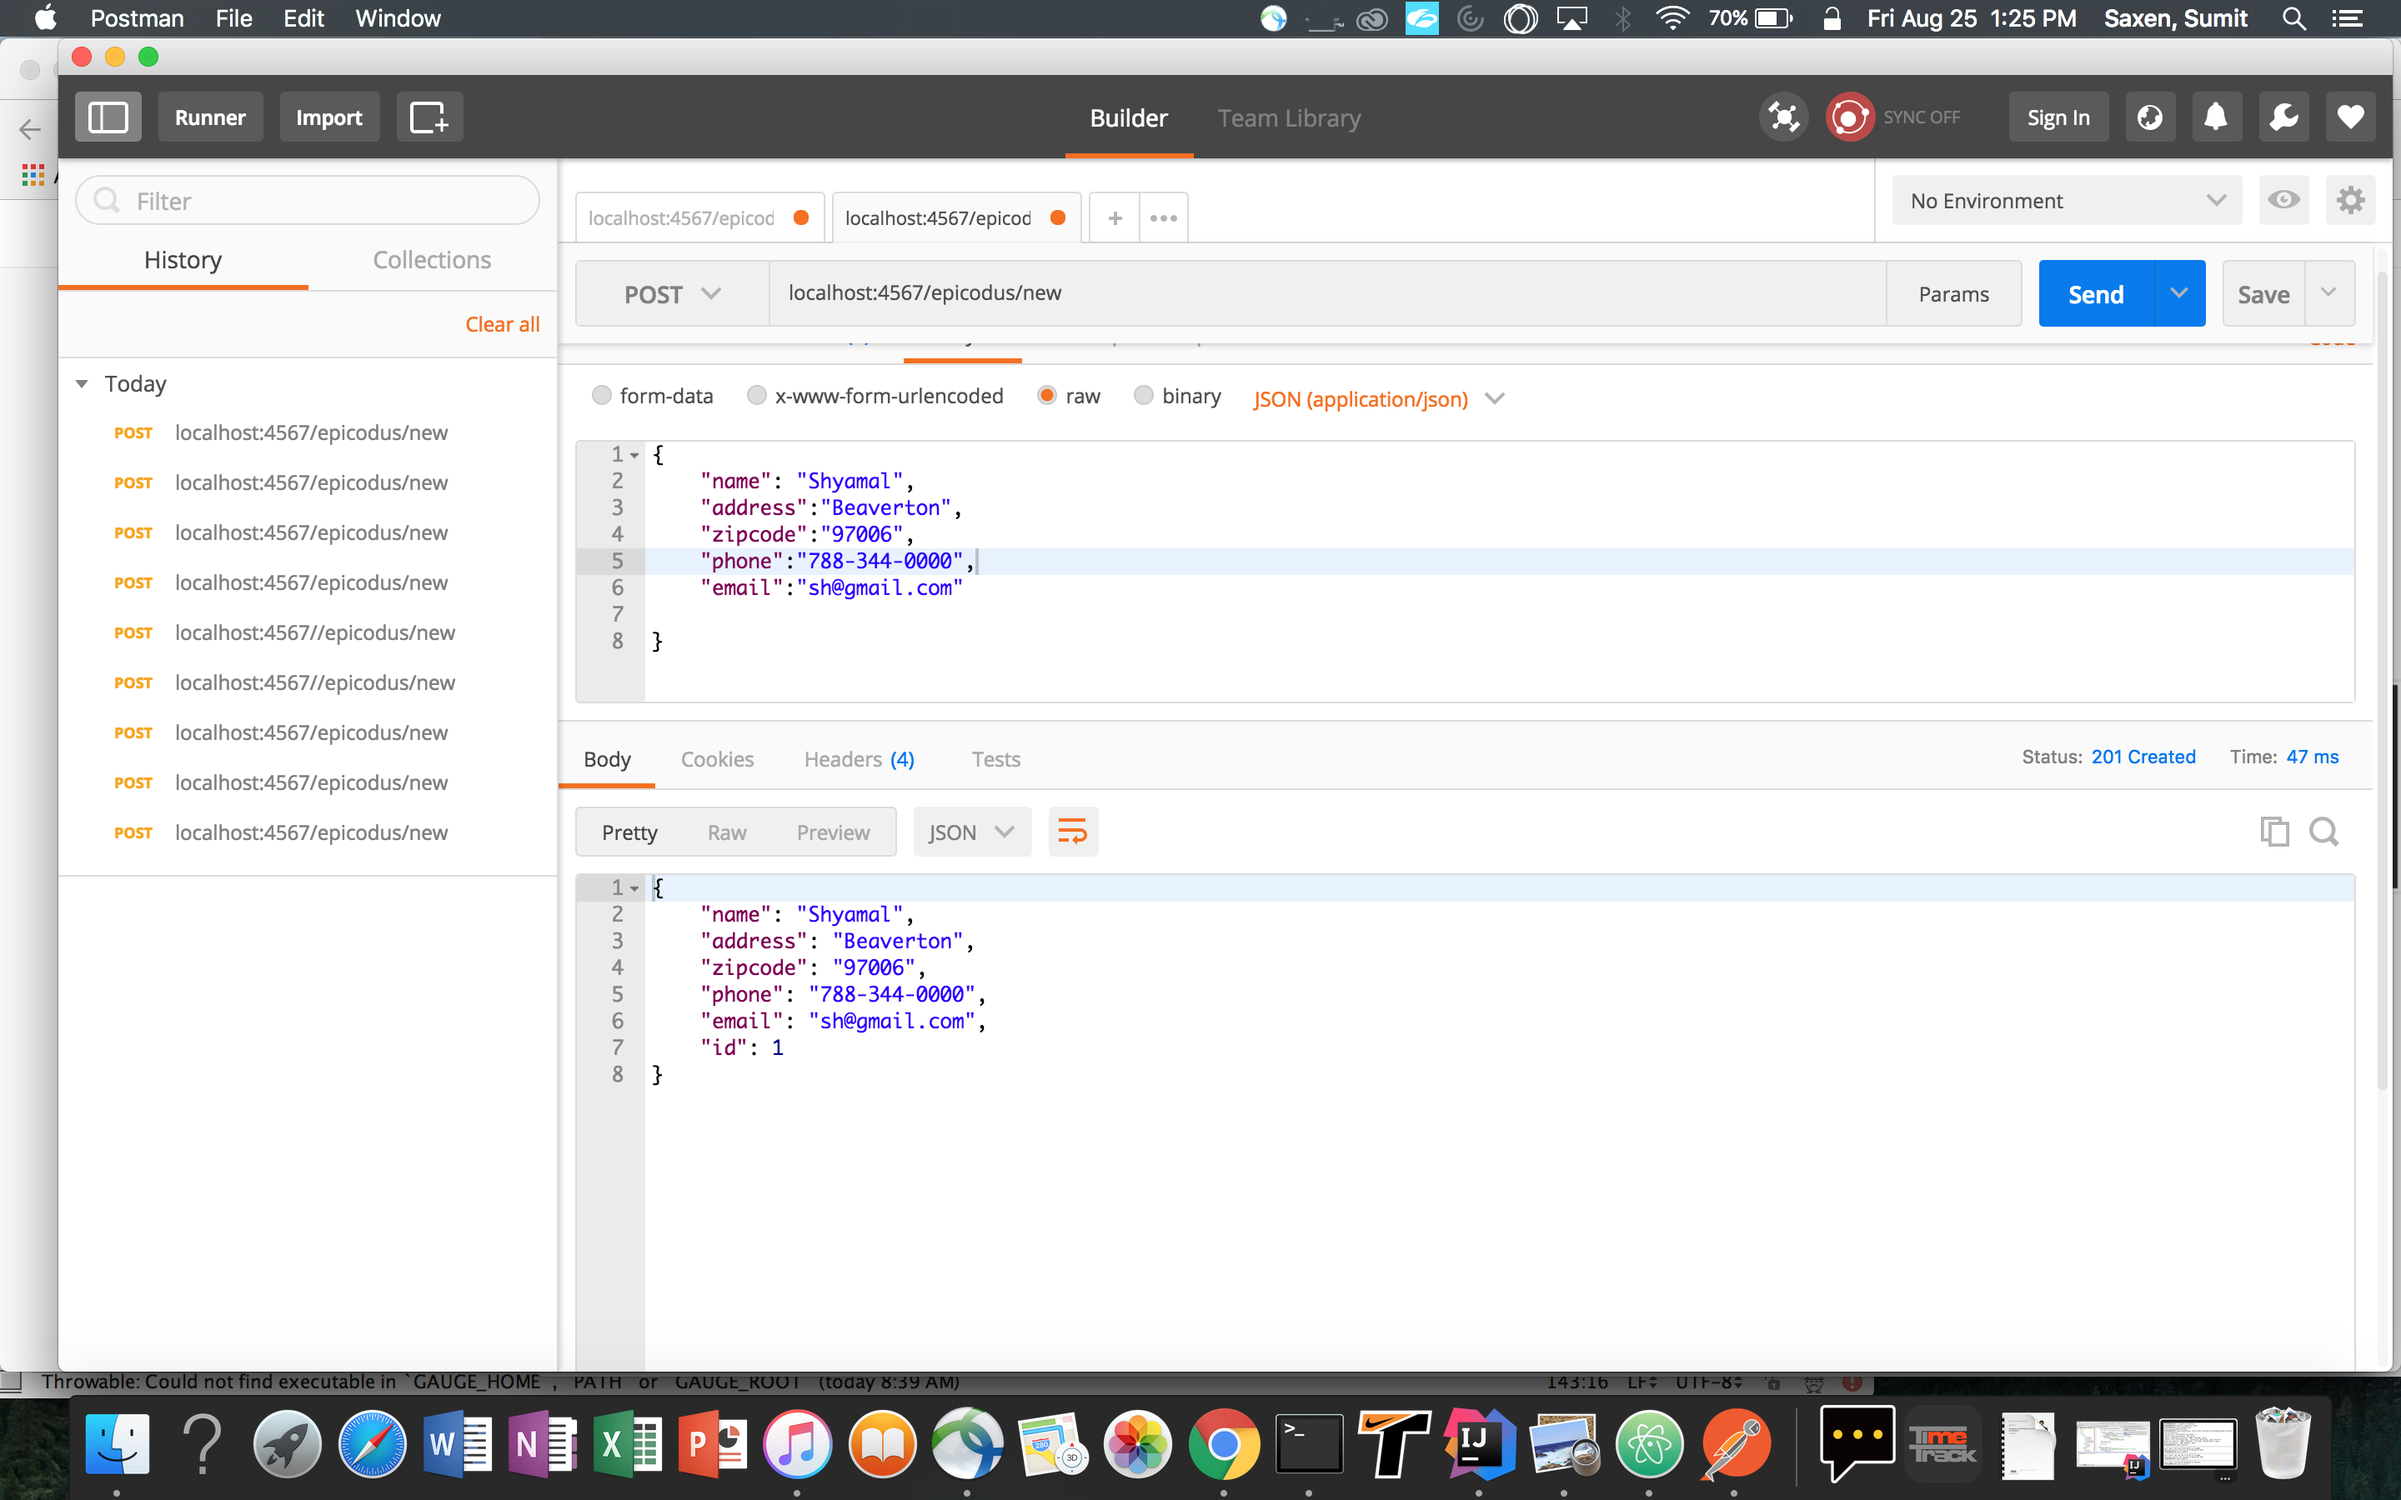
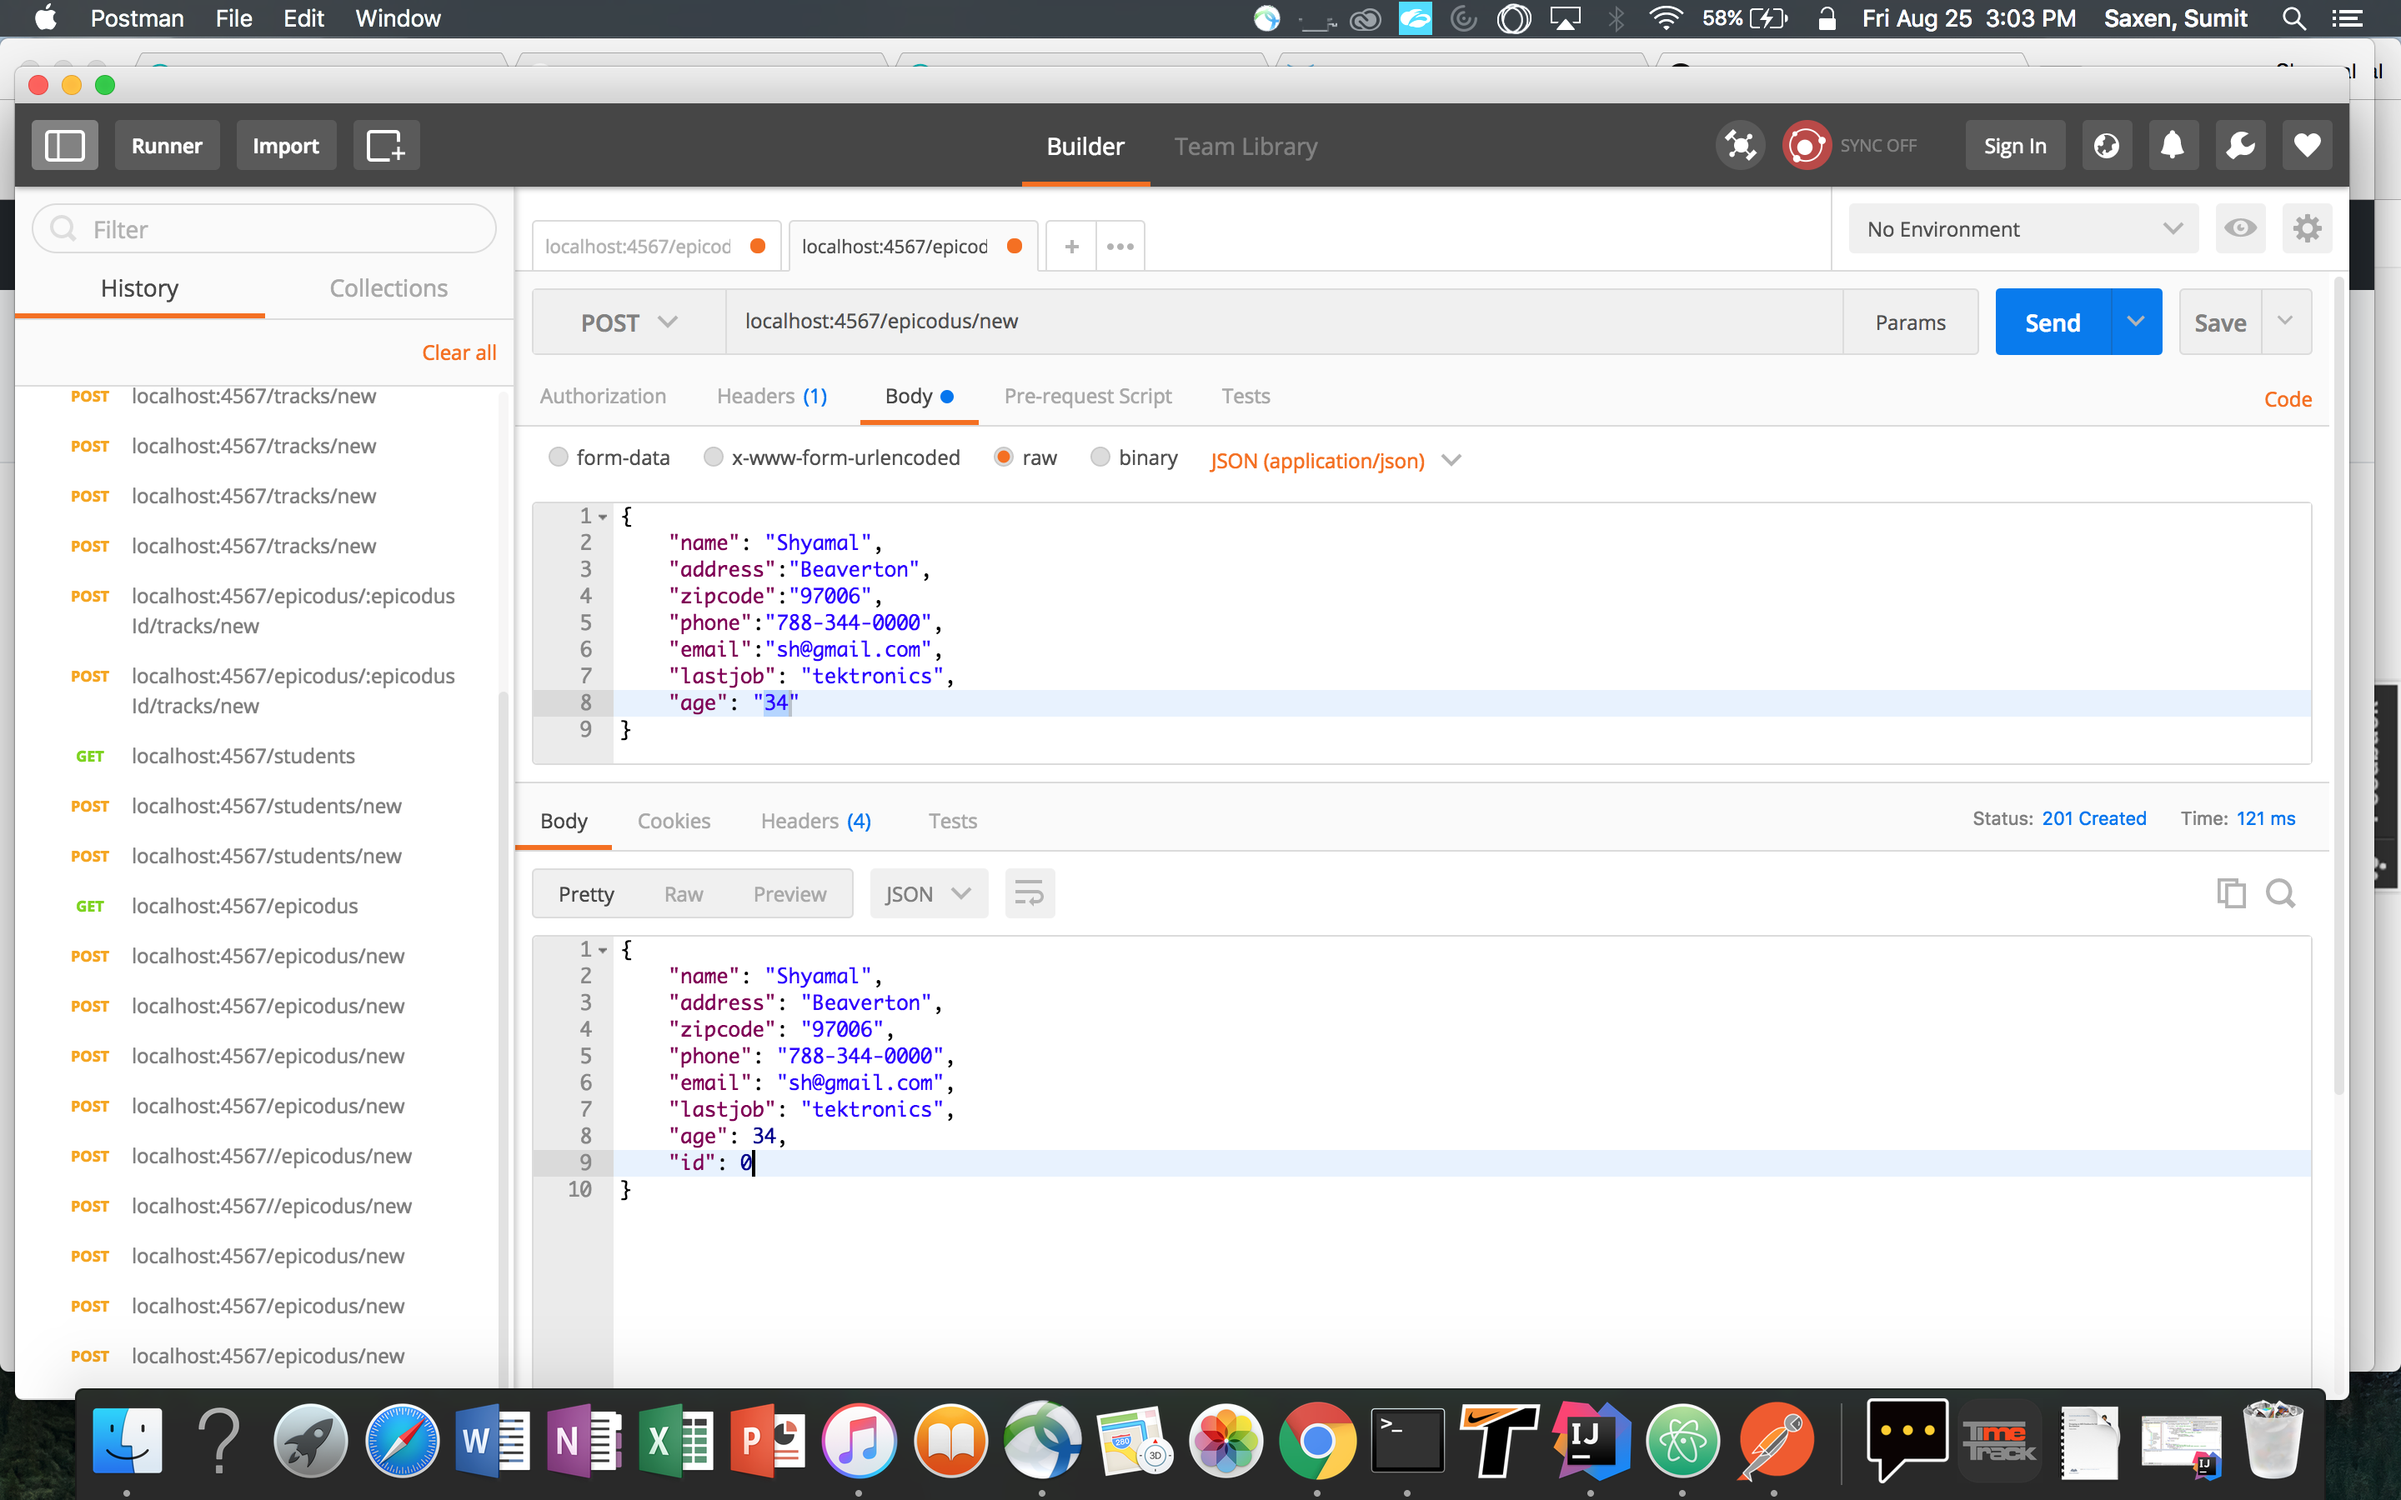
Add dropdown table and ran App again

Changed region(s): [[0.0, 0.0, 1.0, 0.9956]]

diff --git a/src/main/java/dao/Sql2oEpicodusDao.java b/src/main/java/dao/Sql2oEpicodusDao.java
@@ -17,9 +17,36 @@ public class Sql2oEpicodusDao implements EpicodusDao {
         this.sql2o = sql2o;
     }
 
+//    @Override
+//    public void add(Epicodus epicodus) {
+//        String sql = "INSERT INTO epicodus (name, address, zipcode, phone, email, lastjob, age) VALUES (:name, :address, :zipcode, :phone, :email, :lastjob, :age)";
+//        try (Connection con = sql2o.open()) {
+//            int id = (int) con.createQuery(sql)
+//                    .addParameter("name", epicodus.getName())
+//                    .addParameter("address", epicodus.getAddress())
+//                    .addParameter("zipcode", epicodus.getZipcode())
+//                    .addParameter("phone", epicodus.getPhone())
+//                    .addParameter("email", epicodus.getEmail())
+//                    .addParameter("lastjob", epicodus.getLastJob())
+//                    .addParameter("age", epicodus.getAge())
+//                    .addColumnMapping("NAME", "name")
+//                    .addColumnMapping("ADDRESS", "address")
+//                    .addColumnMapping("ZIPCODE", "zipcode")
+//                    .addColumnMapping("PHONE", "phone")
+//                    .addColumnMapping("EMAIL", "email")
+//                    .addColumnMapping("LASTJOB", "lastjob")
+//                    .addColumnMapping("AGE", "age")
+//                    .executeUpdate()
+//                    .getKey();
+//            epicodus.setId(id);
+//        } catch (Sql2oException ex) {
+//            System.out.println(ex);
+//        }
+//    }
+
     @Override
     public void add(Epicodus epicodus) {
-        String sql = "INSERT INTO epicodus (name, address, zipcode, phone, email, lastjob, age) VALUES (:name, :address, :zipcode, :phone, :email, :lastjob, :age)";
+        String sql = "INSERT INTO epicodus (name, address, zipcode, phone, email, lastjob, age) VALUES (:name, :address, :zipcode, :phone, :email,:lastjob, :age)";
         try (Connection con = sql2o.open()) {
             int id = (int) con.createQuery(sql)
                     .addParameter("name", epicodus.getName())
@@ -32,6 +59,8 @@ public class Sql2oEpicodusDao implements EpicodusDao {
                     .addColumnMapping("NAME", "name")
                     .addColumnMapping("ADDRESS", "address")
                     .addColumnMapping("ZIPCODE", "zipcode")
+                    .addColumnMapping("PHONE", "phone")
+                    .addColumnMapping("EMAIL", "email")
                     .addColumnMapping("LASTJOB", "lastjob")
                     .addColumnMapping("AGE", "age")
                     .executeUpdate()
@@ -40,7 +69,7 @@ public class Sql2oEpicodusDao implements EpicodusDao {
         } catch (Sql2oException ex) {
             System.out.println(ex);
         }
-    }
+ }
 
     @Override
     public Epicodus findById(int id) {

diff --git a/src/test/java/dao/Sql2oTracksDaoTest.java b/src/test/java/dao/Sql2oTracksDaoTest.java
@@ -41,7 +41,12 @@ public class Sql2oTracksDaoTest {
         Tracks tracks = setupNewTrack();
         tracksDao.add(tracks);
         Tracks foundTrack = tracksDao.findById(tracks.getId());
-        assertNotEquals(tracks, foundTrack);
+        assertEquals(tracks.getId(), foundTrack.getId());
+        assertEquals(tracks.getCreatedAt(), foundTrack.getCreatedAt());
+        assertEquals(tracks.getContent(), foundTrack.getContent());
+        assertEquals(tracks.getEpicodusId(), foundTrack.getEpicodusId());
+        assertEquals(tracks.getRatedBy(), foundTrack.getRatedBy());
+        assertEquals(tracks.getRating(), foundTrack.getRating());
     }
 
     @Test

diff --git a/src/main/java/App.java b/src/main/java/App.java
@@ -10,6 +10,7 @@ import org.sql2o.Connection;
 import org.sql2o.Sql2o;
 
 import java.util.HashMap;
+import java.util.List;
 import java.util.Map;
 
 import static spark.Spark.*;

diff --git a/README.md b/README.md
@@ -16,12 +16,14 @@ Management software with dashboard for a hypothetical epicodus to allow to do th
 ## Specifications
 
 * It allows the user to add new student's details to epicodus.
-  *  ![picture](/public/img/POST-request-epicodus.png)
-  *  ![picture](/public/img/GET-request-epicodus.png)
+  *  ![picture](/public/img/POST-request-epicodus.png?raw=true)
+  *  ![picture](/public/img/GET-request-epicodus.png?raw=true)
 
 * It allows the user to add new students to an existing epicodus.
-  *  ![picture](/public/img/POST-request-student.png)
-  *  ![picture](/public/img/GET-request-student.png)
+  *  ![picture](/public/img/POST-request-student.png?raw=true)
+  *  ![picture](/public/img/GET-request-student.png?raw=true)
+
+
 
   ## What's Included
 
@@ -59,7 +61,6 @@ You will need [gradle](https://gradle.org/gradle-download/) installed on your de
   * CREATE TABLE epicodus (id serial PRIMARY KEY, name varchar, address varchar, zipcode varchar, phone varchar, email varchar);
   * CREATE TABLE students (id serial PRIMARY KEY, name varchar);
 * _In the cloned repository root directory, run the command 'gradle run'
-* Navigate to `localhost:4567` in a web browser of your choice.
 
 Using Postman:
 * Fire up Postman, and set the HTTP request type to POST, create a record before we can read it.
